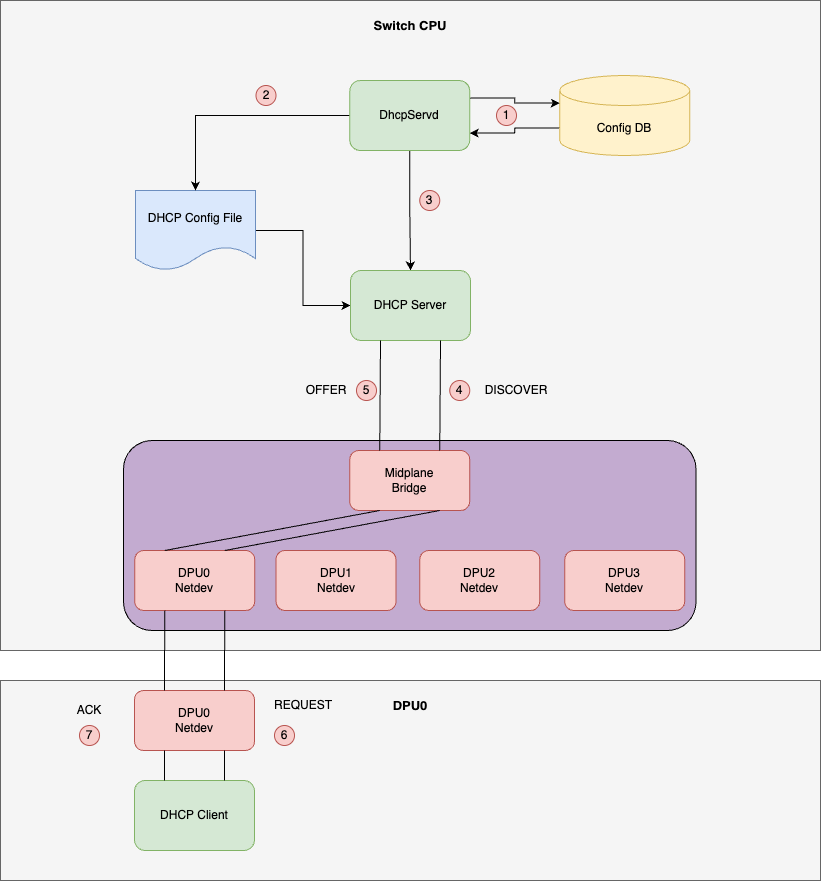
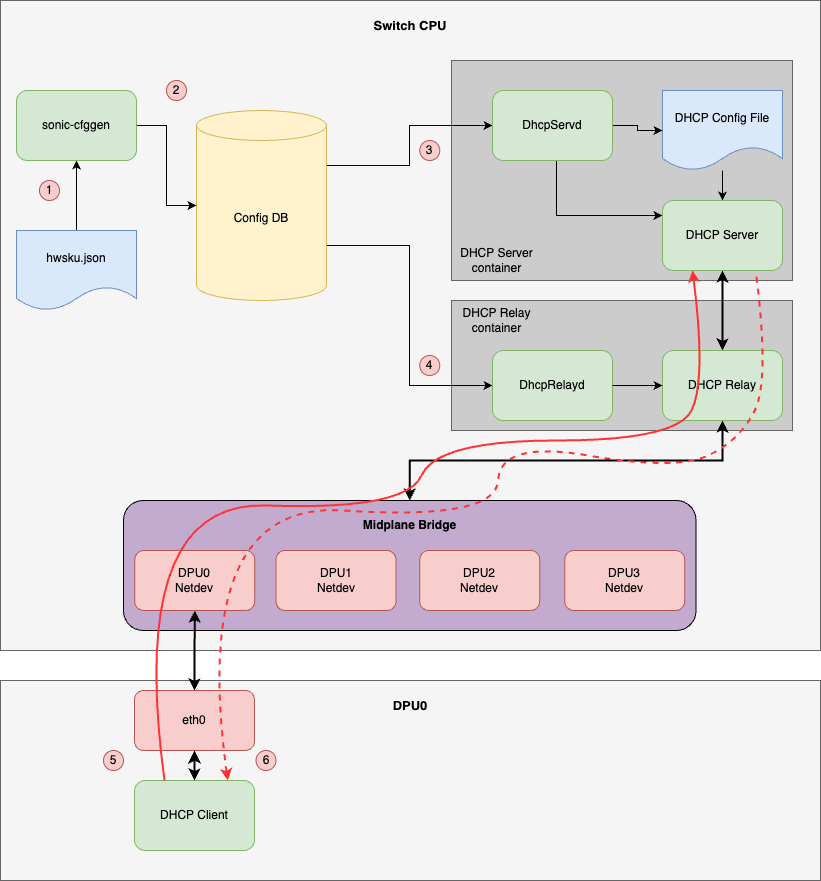
Fix review comments.

diff --git a/doc/dash/smart-switch-ip-address-assigment/smart-switch-ip-address-assignment.md b/doc/dash/smart-switch-ip-address-assigment/smart-switch-ip-address-assignment.md
@@ -86,7 +86,7 @@ To implement the switch side functionality the following changes shall be done:
     - DPU modules available on the platform.
     - DPU to netdev mapping.
 - Config DB schema should be extended to include the following information:
-  - Support of the new `SmartSwitch` type in DEVICE_METADATA config DB table. The new type shall allow to identify when the SONiC is running on the Smart Switch.
+  - Support of the new `SmartSwitch` subtype in DEVICE_METADATA config DB table. The new subtype shall allow to identify when the SONiC is running on the Smart Switch.
   - Support of the new `MID_PLANE_BRIDGE` table with the following information
     - Midplane bridge configuration with the bridge IP address and list of the DPU PCIe interfaces that should be added to the bridge for the Smart Switch case.
 - sonic-cfggen utility shall be extended to generate the following sample configuration based on the `t1-smartswitch` topology:
@@ -107,11 +107,11 @@ The HWSKU configuration shall be extended to provide the information about the D
 ```json
 {
     "DPUS": {
-        "Dpu0" {
-            "interface":  "Dpu0",
+        "dpu0": {
+            "midplane_interface":  "dpu0",
         },
-        "Dpu1" {
-            "interface":  "Dpu1",
+        "dpu1": {
+            "midplane_interface":  "dpu1",
         }
     }
 }
@@ -119,7 +119,7 @@ The HWSKU configuration shall be extended to provide the information about the D
 
 ### DPU and PCIe interfaces naming convention ###
 
-To follow the SONiC interfaces naming convention names of the DPUs in the DB and the PCIe interfaces that are connected to the DPUs shall start from the "Dpu" prefix. The indexes shall start from "0" and shall represent the id of the DPU. For example Dpu0, Dpu1, etc. It is up to vendors' implementation to ensure that interfaces are assigned with the correct name during the system initialization.
+To follow the SONiC interfaces naming convention names of the DPUs in the DB and the PCIe interfaces that are connected to the DPUs shall start from the "dpu" prefix. The indexes shall start from "0" and shall represent the id of the DPU. For example dpu0, dpu1, etc. It is up to vendors' implementation to ensure that interfaces are assigned with the correct name during the system initialization.
 
 ### Configuration generation for IP address assignment ###
 
@@ -145,14 +145,14 @@ Based on the preset `t1-smartswitch` default topology the configuration generate
     "DEVICE_METADATA": {
         "localhost": {
             "switch_type": "switch",
-            "type": "SmartSwitch",
+            "type": "LeafRouter",
+            "subtype": "SmartSwitch",
         }
     },
     "MID_PLANE_BRIDGE" {
         "GLOBAL": {
             "bridge" : "bridge_midplane",
-            "address": "169.254.200.254/24",
-            "members": ["Dpu0", "Dpu1"]
+            "address": "169.254.200.254/24"
         }
     },
     "DHCP_SERVER_IPV4": {
@@ -160,17 +160,17 @@ Based on the preset `t1-smartswitch` default topology the configuration generate
             "gateway": "169.254.200.254",
             "lease_time": "infinite",
             "mode": "PORT",
-            "netmask": "255.255.0.0",
+            "netmask": "255.255.255.0",
             "state": "enabled"
         }
     },
     "DHCP_SERVER_IPV4_PORT": {
-        "bridge_midplane|Dpu0": {
+        "bridge_midplane|dpu0": {
             "ips": [
                 "169.254.200.1"
             ]
         },
-        "bridge_midplane|Dpu1": {
+        "bridge_midplane|dpu1": {
             "ips": [
                 "169.254.200.2"
             ]
@@ -223,10 +223,11 @@ iface bridge_midplane inet static
 
 ![image](./smart-switch-ip-assignment-ip-assignment-flow.png)
 
-- (1) DhcpServd when starts consumes DHCP configuration from the Config DB that includes configuration for DPU interfaces.
-- (2) DhcpServd renders configuration for DHCP server.
-- (3) DhcpServd starts DHCP server
-- (4-7) DPU request IP address from the DHCP server
+- (1) sonic-cfggen based on hwsku.json renders midplane bridge and DHCP server configuration.
+- (2) sonic-cfggen pushes configuration into the Config DB.
+- (3-4) DHCP server and DHCP relay containers upon start consume configuration from the config DB and start listening for a requests from DHCP clients.
+- (5) DHCP client on the DPU sends a request over the eth0 interfaces. The request comes to the DHCP relay through the midplane bridge. DHCP relay inserts option 82 into the request with the information about the interface from which the request came. DHCP relay forwards the packet to the DHCP server.
+- (6) The DHCP server sends a reply with the IP configuration to the DHCP client on the DPU.
 
 ### DPU ###
 
@@ -269,9 +270,9 @@ The YANG model shown in this section is provided as a reference. The complete mo
 
         container DEVICE_METADATA {
             leaf type {
-                    type string {
+                    subtype string {
                         length 1..255;
-                        pattern "<All existing types>|SmartSwitch";
+                        pattern "<All existing subtypes>|SmartSwitch";
                     }
                 }
         }
@@ -294,20 +295,12 @@ The YANG model shown in this section is provided as a reference. The complete mo
                     }
                     description "Name of the midplane bridge";
 
-                    must "(current()/../ip_prefix) and (current()/../members)";
+                    must "(current()/../ip_prefix)";
                 }
 
                 leaf ip_prefix {
                     type inet:ipv4-prefix;
                     description "IP prefix of the midplane bridge";
-                }
-
-                leaf-list members {
-                    description "List of the DPU interfaces.";
-
-                    type string {
-                        pattern "Dpu[0-9]+";
-                    }
                 }
             }
             /* end of container GLOBAL */
@@ -323,15 +316,15 @@ The YANG model shown in this section is provided as a reference. The complete mo
                 leaf dpu_name {
                     description "Name of the DPU";
                     type string {
-                        pattern "DPU[0-9]+";
+                        pattern "dpu[0-9]+";
                     }
                 }
 
-                leaf interface {
+                leaf midplane_interface {
                     description "Name of the interface that represents DPU";
 
                     type string {
-                        pattern "Dpu[0-9]+";
+                        pattern "dpu[0-9]+";
                     }
                 }
             }
@@ -340,7 +333,6 @@ The YANG model shown in this section is provided as a reference. The complete mo
         /* end of container DPUS */
     }
     /* end of container sonic-smart-switch */
-
 ```
 
 ## Warmboot and Fastboot Design Impact ##
